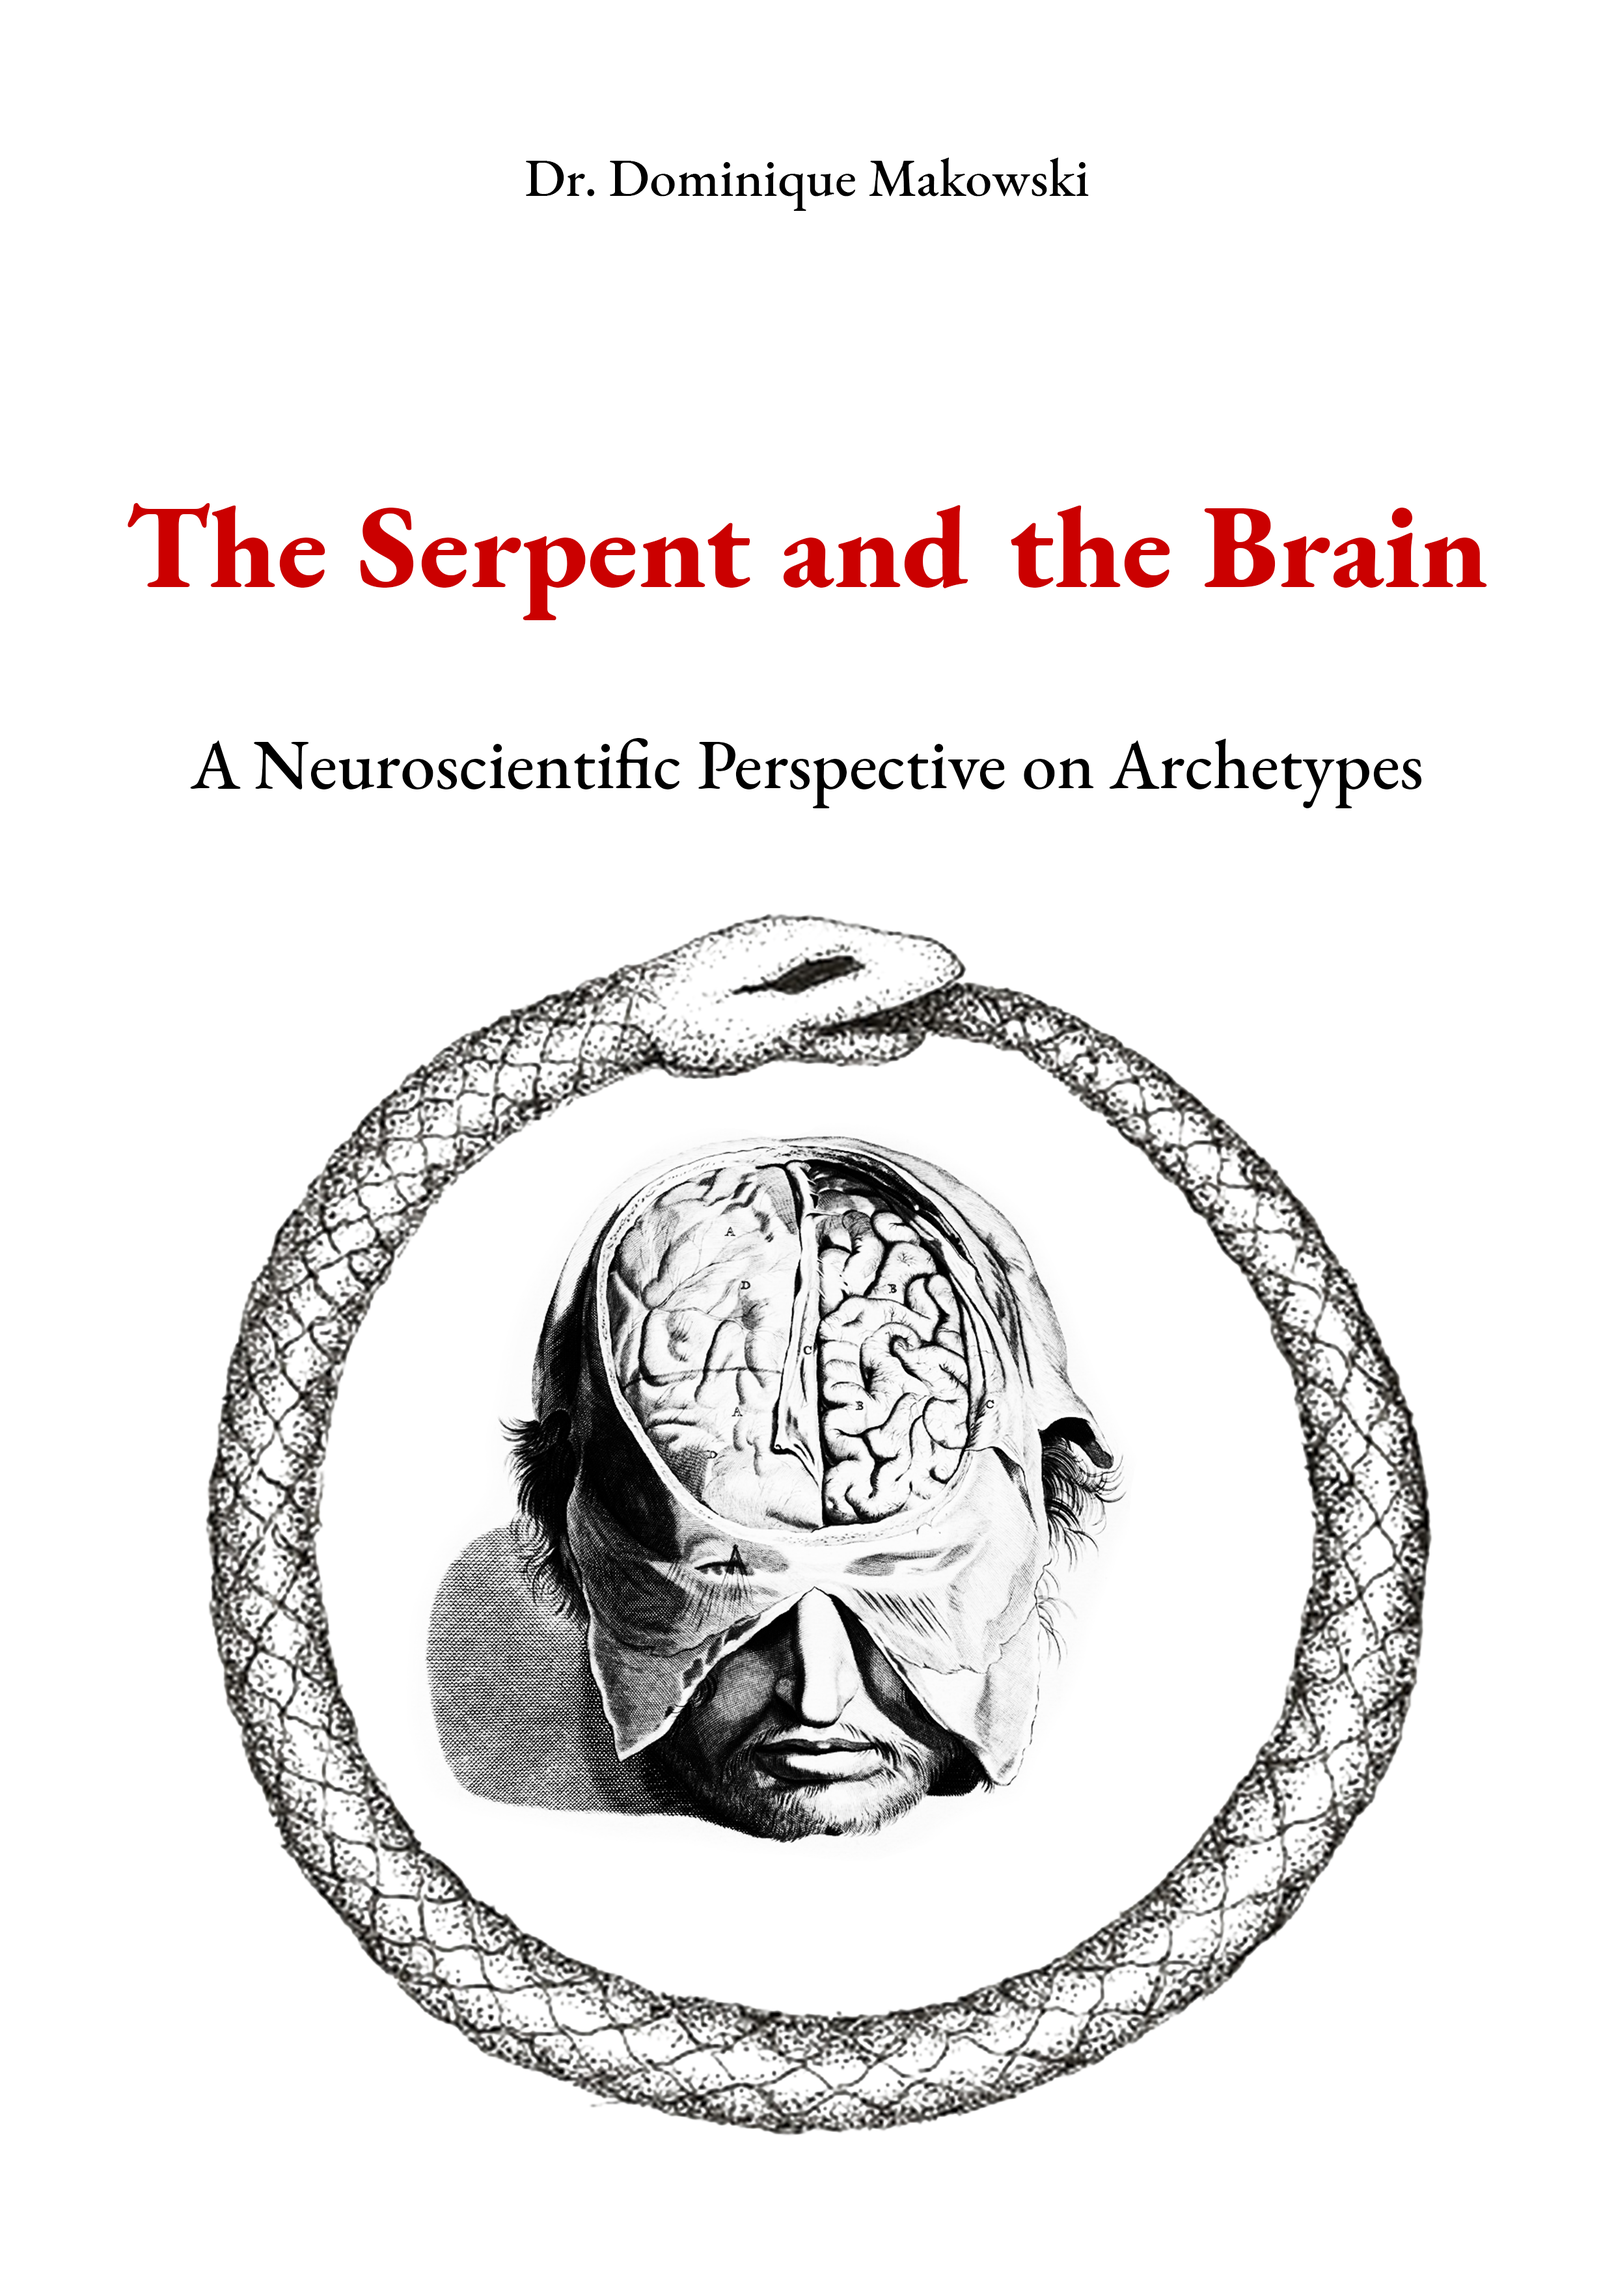
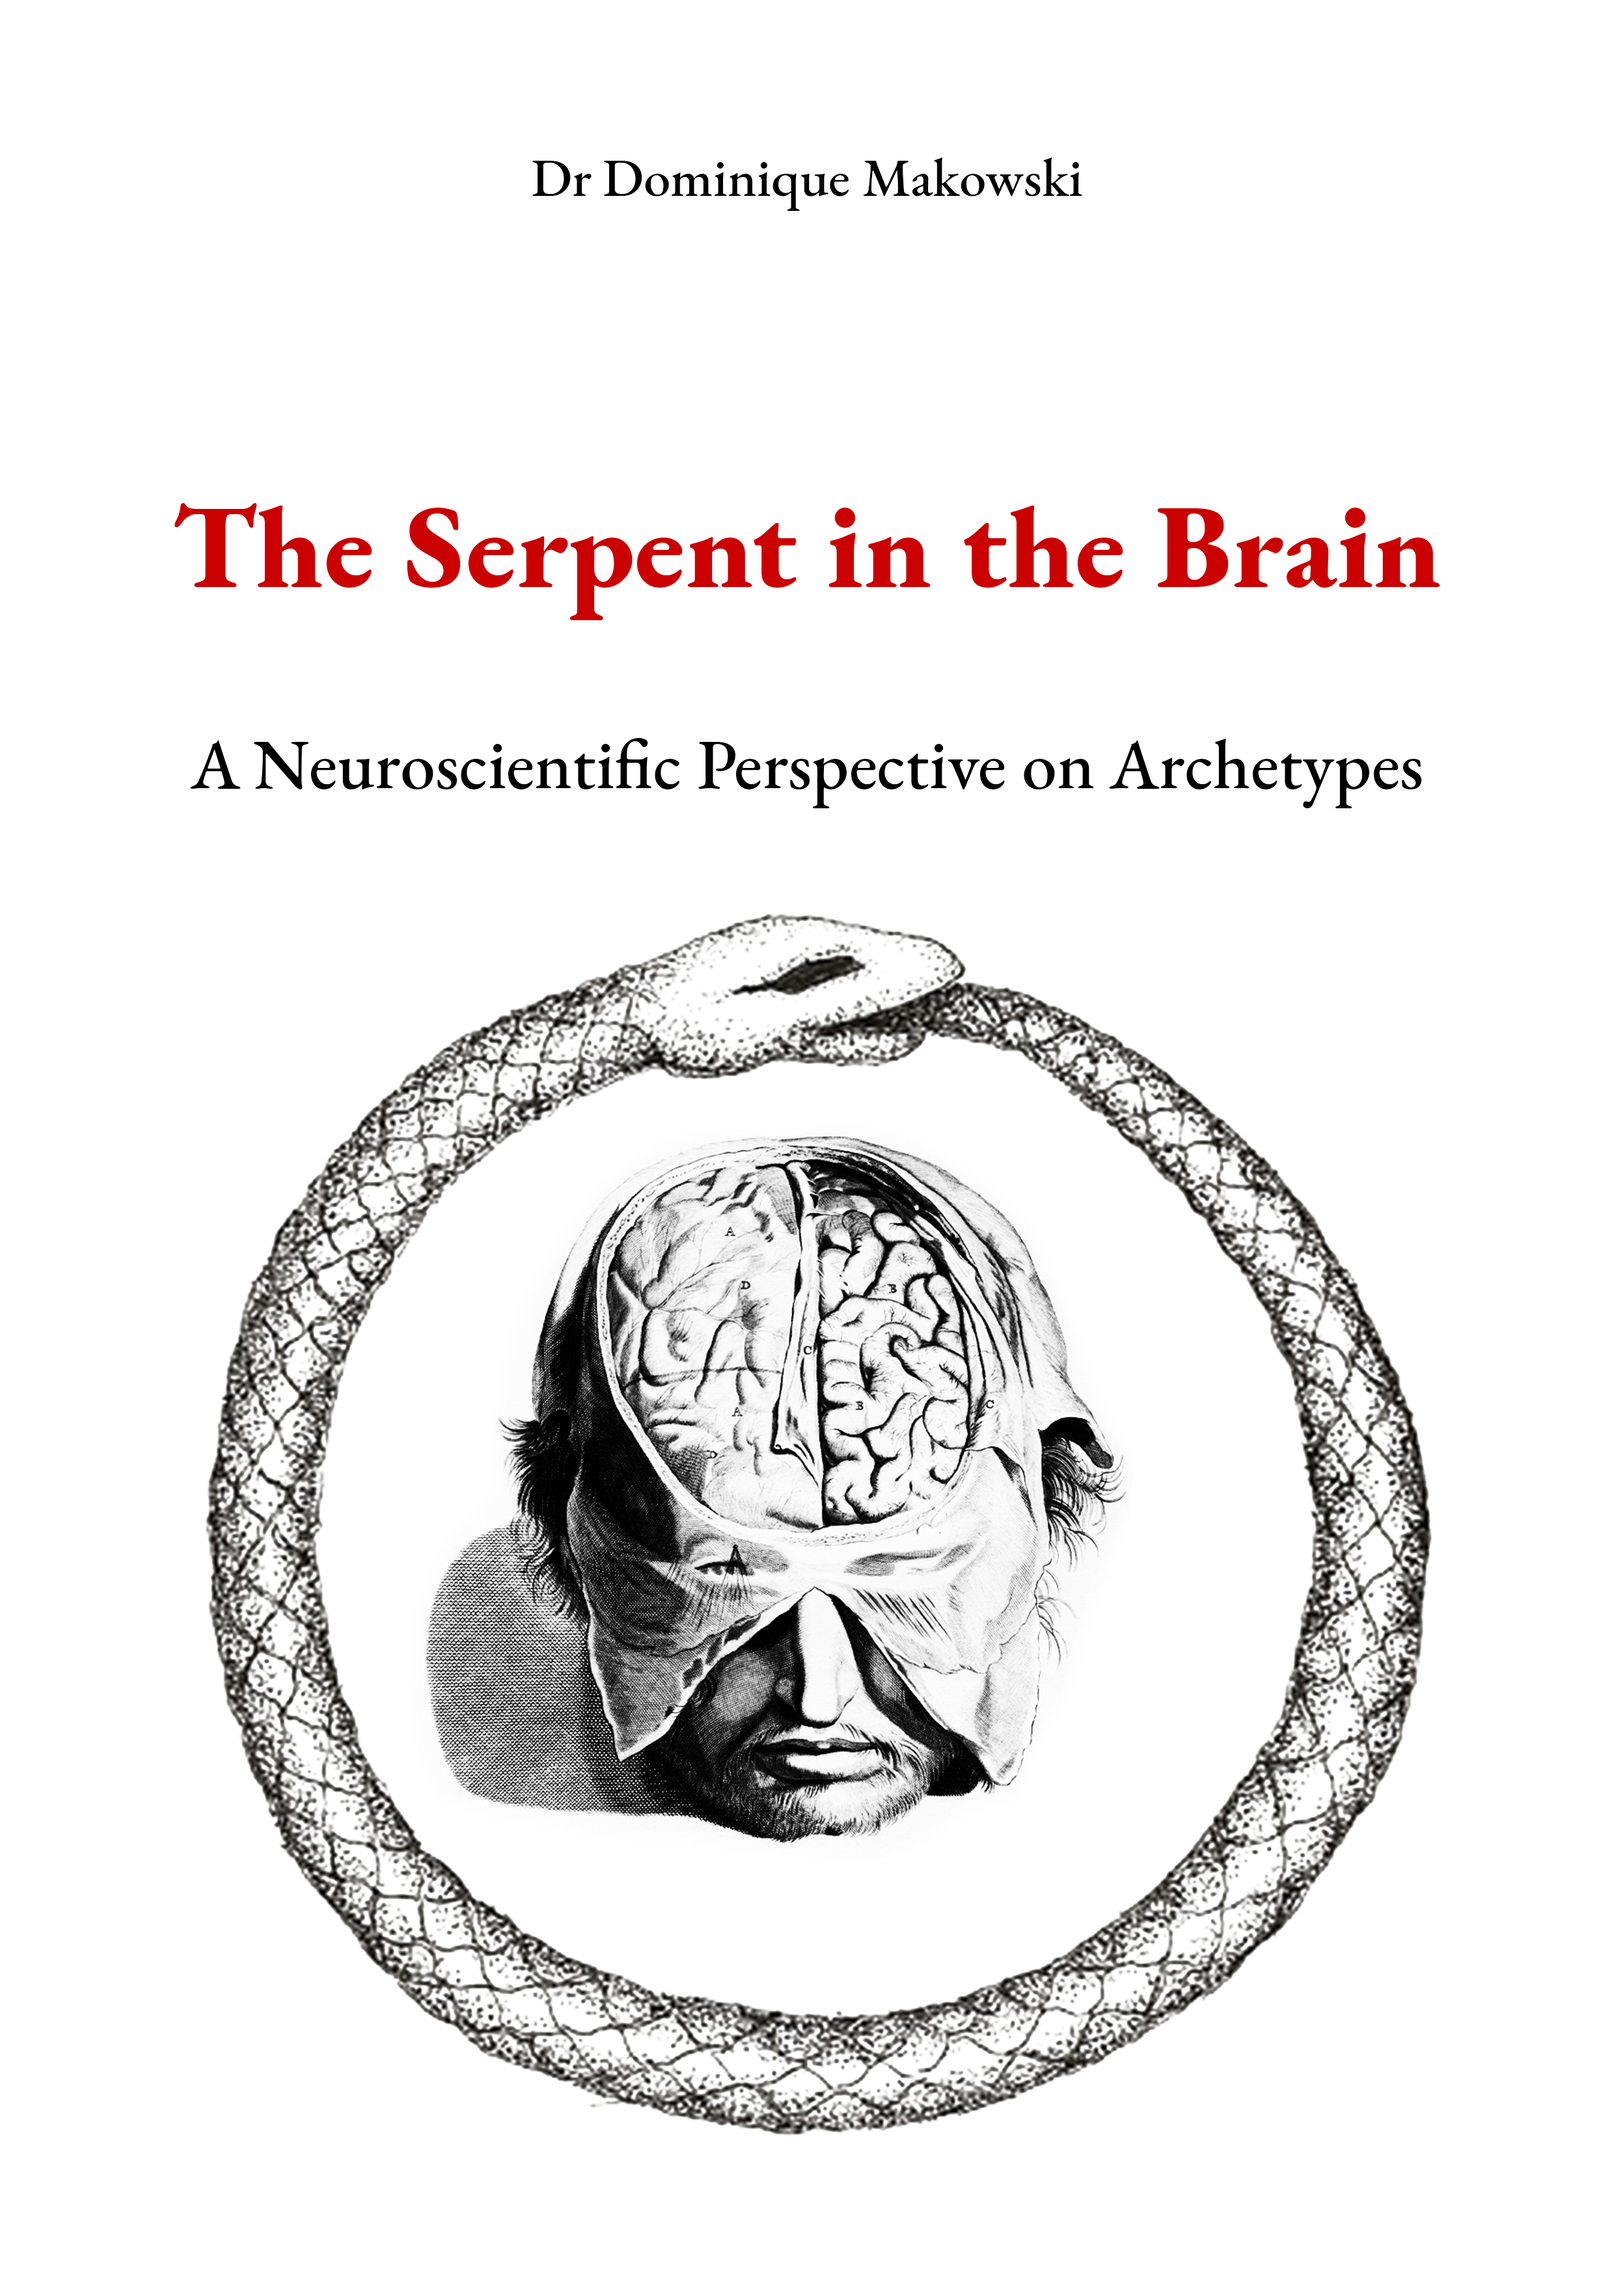
Push gitbook

Changed region(s): [[0.0931, 0.2175, 0.9315, 0.2796], [0.3105, 0.0621, 0.6831, 0.0932]]

diff --git a/docs/index.html b/docs/index.html
@@ -21,7 +21,7 @@
   <meta name="twitter:description" content="The Serpent in the Brain: A Neuroscientific Perspective on Archetypes. A book by Dr. Dominique Makowski." />
   <meta name="twitter:image" content="https://github.com/DominiqueMakowski/archetypesimg/cover.png" />
 
-<meta name="author" content="Dr. Dominique Makowski" />
+<meta name="author" content="Dr Dominique Makowski" />
 
 
 <meta name="date" content="2020-11-18" />
@@ -165,7 +165,7 @@
             <section class="normal" id="section-">
 <div id="header">
 <h1 class="title">The Serpent in the Brain: A Neuroscientific Perspective on Archetypes</h1>
-<p class="author"><em>Dr. Dominique Makowski</em></p>
+<p class="author"><em>Dr Dominique Makowski</em></p>
 <p class="date"><em>2020-11-18</em></p>
 </div>
 <div id="section" class="section level1 unnumbered">

diff --git a/docs/archetypal-stories-and-motifs.html b/docs/archetypal-stories-and-motifs.html
@@ -21,7 +21,7 @@
   <meta name="twitter:description" content="Chapter 7 Archetypal stories and motifs | The Serpent in the Brain: A Neuroscientific Perspective on Archetypes. A book by Dr. Dominique Makowski." />
   <meta name="twitter:image" content="https://github.com/DominiqueMakowski/archetypesimg/cover.png" />
 
-<meta name="author" content="Dr. Dominique Makowski" />
+<meta name="author" content="Dr Dominique Makowski" />
 
 
 <meta name="date" content="2020-11-18" />

diff --git a/docs/archetypes-and-psychology.html b/docs/archetypes-and-psychology.html
@@ -21,7 +21,7 @@
   <meta name="twitter:description" content="Chapter 5 Archetypes and Psychology | The Serpent in the Brain: A Neuroscientific Perspective on Archetypes. A book by Dr. Dominique Makowski." />
   <meta name="twitter:image" content="https://github.com/DominiqueMakowski/archetypesimg/cover.png" />
 
-<meta name="author" content="Dr. Dominique Makowski" />
+<meta name="author" content="Dr Dominique Makowski" />
 
 
 <meta name="date" content="2020-11-18" />

diff --git a/docs/a-scientific-archetypism.html b/docs/a-scientific-archetypism.html
@@ -21,7 +21,7 @@
   <meta name="twitter:description" content="Chapter 2 A Scientific Archetypism | The Serpent in the Brain: A Neuroscientific Perspective on Archetypes. A book by Dr. Dominique Makowski." />
   <meta name="twitter:image" content="https://github.com/DominiqueMakowski/archetypesimg/cover.png" />
 
-<meta name="author" content="Dr. Dominique Makowski" />
+<meta name="author" content="Dr Dominique Makowski" />
 
 
 <meta name="date" content="2020-11-18" />

diff --git a/docs/archetypes-and-the-brain.html b/docs/archetypes-and-the-brain.html
@@ -21,7 +21,7 @@
   <meta name="twitter:description" content="Chapter 6 Archetypes and the Brain | The Serpent in the Brain: A Neuroscientific Perspective on Archetypes. A book by Dr. Dominique Makowski." />
   <meta name="twitter:image" content="https://github.com/DominiqueMakowski/archetypesimg/cover.png" />
 
-<meta name="author" content="Dr. Dominique Makowski" />
+<meta name="author" content="Dr Dominique Makowski" />
 
 
 <meta name="date" content="2020-11-18" />

diff --git a/docs/the-origin-of-religions.html b/docs/the-origin-of-religions.html
@@ -21,7 +21,7 @@
   <meta name="twitter:description" content="Chapter 8 The Origin of Religions | The Serpent in the Brain: A Neuroscientific Perspective on Archetypes. A book by Dr. Dominique Makowski." />
   <meta name="twitter:image" content="https://github.com/DominiqueMakowski/archetypesimg/cover.png" />
 
-<meta name="author" content="Dr. Dominique Makowski" />
+<meta name="author" content="Dr Dominique Makowski" />
 
 
 <meta name="date" content="2020-11-18" />

diff --git a/docs/history-of-archetypes.html b/docs/history-of-archetypes.html
@@ -21,7 +21,7 @@
   <meta name="twitter:description" content="Chapter 1 History of Archetypes | The Serpent in the Brain: A Neuroscientific Perspective on Archetypes. A book by Dr. Dominique Makowski." />
   <meta name="twitter:image" content="https://github.com/DominiqueMakowski/archetypesimg/cover.png" />
 
-<meta name="author" content="Dr. Dominique Makowski" />
+<meta name="author" content="Dr Dominique Makowski" />
 
 
 <meta name="date" content="2020-11-18" />

diff --git a/docs/the-main-archetypes.html b/docs/the-main-archetypes.html
@@ -21,7 +21,7 @@
   <meta name="twitter:description" content="Chapter 4 The Main Archetypes | The Serpent in the Brain: A Neuroscientific Perspective on Archetypes. A book by Dr. Dominique Makowski." />
   <meta name="twitter:image" content="https://github.com/DominiqueMakowski/archetypesimg/cover.png" />
 
-<meta name="author" content="Dr. Dominique Makowski" />
+<meta name="author" content="Dr Dominique Makowski" />
 
 
 <meta name="date" content="2020-11-18" />

diff --git a/docs/definition.html b/docs/definition.html
@@ -21,7 +21,7 @@
   <meta name="twitter:description" content="Chapter 3 Definition | The Serpent in the Brain: A Neuroscientific Perspective on Archetypes. A book by Dr. Dominique Makowski." />
   <meta name="twitter:image" content="https://github.com/DominiqueMakowski/archetypesimg/cover.png" />
 
-<meta name="author" content="Dr. Dominique Makowski" />
+<meta name="author" content="Dr Dominique Makowski" />
 
 
 <meta name="date" content="2020-11-18" />

diff --git a/docs/references.html b/docs/references.html
@@ -21,7 +21,7 @@
   <meta name="twitter:description" content="References | The Serpent in the Brain: A Neuroscientific Perspective on Archetypes. A book by Dr. Dominique Makowski." />
   <meta name="twitter:image" content="https://github.com/DominiqueMakowski/archetypesimg/cover.png" />
 
-<meta name="author" content="Dr. Dominique Makowski" />
+<meta name="author" content="Dr Dominique Makowski" />
 
 
 <meta name="date" content="2020-11-18" />

diff --git a/docs/preface.html b/docs/preface.html
@@ -21,7 +21,7 @@
   <meta name="twitter:description" content="Preface | The Serpent in the Brain: A Neuroscientific Perspective on Archetypes. A book by Dr. Dominique Makowski." />
   <meta name="twitter:image" content="https://github.com/DominiqueMakowski/archetypesimg/cover.png" />
 
-<meta name="author" content="Dr. Dominique Makowski" />
+<meta name="author" content="Dr Dominique Makowski" />
 
 
 <meta name="date" content="2020-11-18" />
